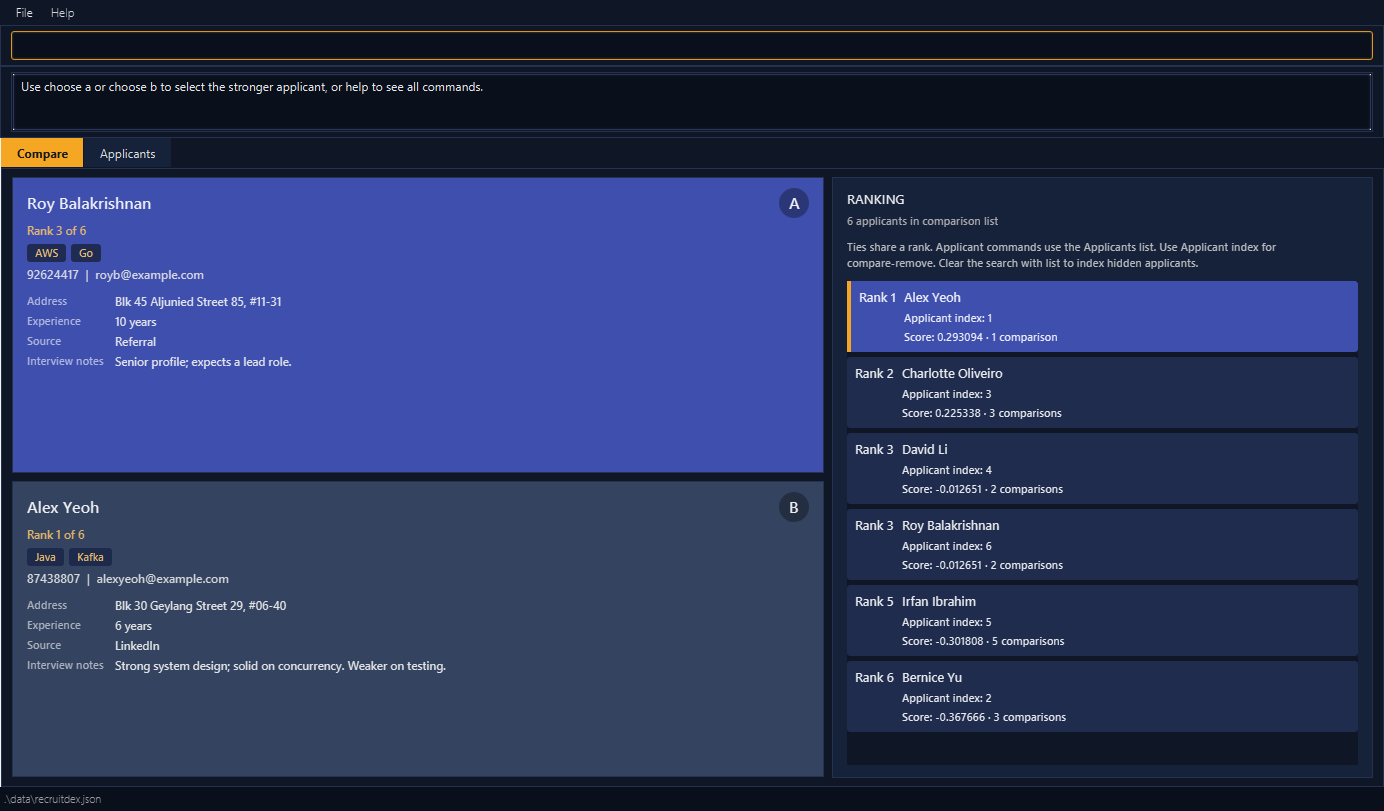
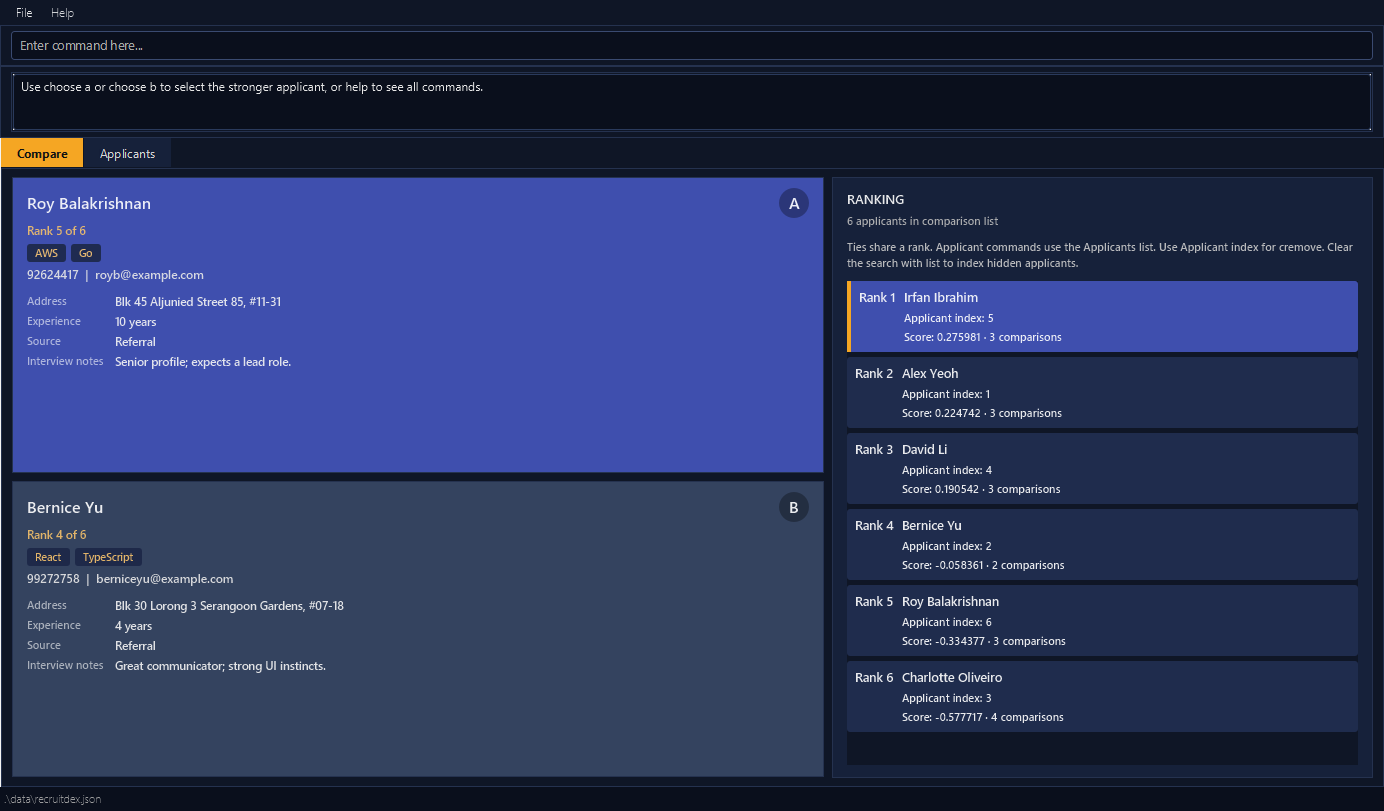
Shorten comparison commands to cadd and cremove
The comparison commands require typing compare-add and compare-remove
for each membership change.

Shorten these names to reduce typing while keeping the actions clear.
Rename them to cadd and cremove without retaining aliases, giving each
action one supported command name.

Update the ranking hint, affected tests, both guides, and screenshots
so the documented commands match the application.

Refs #179

diff --git a/src/test/java/seedu/recruitdex/logic/LogicManagerTest.java b/src/test/java/seedu/recruitdex/logic/LogicManagerTest.java
@@ -167,10 +167,10 @@ public class LogicManagerTest {
         model.getApplicantRegistry().add(ALICE);
         model.getApplicantRegistry().add(BENSON);
         var pairProperty = logic.getCurrentPairProperty();
-        logic.execute("compare-add 1");
+        logic.execute("cadd 1");
         assertTrue(pairProperty.get().isEmpty());
 
-        logic.execute("compare-add 2");
+        logic.execute("cadd 2");
 
         ComparisonPair selectedPair = pairProperty.get().orElseThrow();
         assertEquals(Set.of(ALICE.getId(), BENSON.getId()),
@@ -187,8 +187,8 @@ public class LogicManagerTest {
     public void execute_choose_recordsDisplayedSideAndPersistsHistoryRankingAndNextPair() throws Exception {
         model.getApplicantRegistry().add(ALICE);
         model.getApplicantRegistry().add(BENSON);
-        logic.execute("compare-add 1");
-        logic.execute("compare-add 2");
+        logic.execute("cadd 1");
+        logic.execute("cadd 2");
         logic.execute("find -n Alice");
         ComparisonPair presentedPair = logic.getCurrentPairProperty().get().orElseThrow();
         Applicant winner = model.getApplicantRegistry().get(presentedPair.getFirstApplicantId());
@@ -229,7 +229,7 @@ public class LogicManagerTest {
     @Test
     public void execute_chooseWithoutPair_rejectsCommandAndPreservesSavedData() throws Exception {
         model.getApplicantRegistry().add(ALICE);
-        logic.execute("compare-add 1");
+        logic.execute("cadd 1");
         JsonRecruitDexDataStorage saved =
                 new JsonRecruitDexDataStorage(temporaryFolder.resolve("recruitDexData.json"));
         ReadOnlyRecruitDexData savedBefore = saved.readRecruitDexData().orElseThrow();

diff --git a/src/test/java/seedu/recruitdex/logic/ComparisonCommandRankingFailureTest.java b/src/test/java/seedu/recruitdex/logic/ComparisonCommandRankingFailureTest.java
@@ -50,13 +50,13 @@ public class ComparisonCommandRankingFailureTest {
 
     @TestFactory
     public Stream<DynamicTest> execute_rankingFailure_preservesModelAndSavedData() {
-        return Stream.of("compare-add", "compare-remove", "delete")
+        return Stream.of("cadd", "cremove", "delete")
                 .map(command -> DynamicTest.dynamicTest(command, () -> assertRejectedWithoutChanges(command)));
     }
 
     private void assertRejectedWithoutChanges(String command) throws Exception {
         ModelManager model = createModel(command);
-        Applicant target = command.equals("compare-add") ? DANIEL : ELLE;
+        Applicant target = command.equals("cadd") ? DANIEL : ELLE;
         model.updateFilteredApplicantList(applicant -> applicant.getId().equals(target.getId()));
         RecruitDexData dataBefore = new RecruitDexData(model.getRecruitDexData());
         List<RankingEntry> rankingBefore = List.copyOf(model.getRankingEngine().getRanking());
@@ -117,7 +117,7 @@ public class ComparisonCommandRankingFailureTest {
             model.getApplicantRegistry().add(applicant);
         }
         List<ComparisonDecision> decisions = createHistory();
-        if (command.equals("compare-add")) {
+        if (command.equals("cadd")) {
             // Daniel's retained decisions become eligible when he rejoins the pool.
             model.getComparisonList().resetData(Set.of(ALICE.getId(), BENSON.getId(), CARL.getId()), decisions,
                     Optional.of(new ComparisonPair(ALICE.getId(), BENSON.getId())));

diff --git a/src/test/java/seedu/recruitdex/logic/commands/CommandInfoTest.java b/src/test/java/seedu/recruitdex/logic/commands/CommandInfoTest.java
@@ -55,11 +55,11 @@ public class CommandInfoTest {
 
     @Test
     public void fromUsage_commandWordWithHyphen_isKept() {
-        CommandInfo info = CommandInfo.fromUsage("compare-add: Adds an applicant.\n"
-                + "Parameters: INDEX\nExample: compare-add 1");
+        CommandInfo info = CommandInfo.fromUsage("sample-command: Adds an applicant.\n"
+                + "Parameters: INDEX\nExample: sample-command 1");
 
-        assertEquals("compare-add", info.commandWord());
-        assertEquals("compare-add 1", info.example());
+        assertEquals("sample-command", info.commandWord());
+        assertEquals("sample-command 1", info.example());
     }
 
     @Test

diff --git a/src/main/java/seedu/recruitdex/logic/commands/RemoveFromComparisonCommand.java b/src/main/java/seedu/recruitdex/logic/commands/RemoveFromComparisonCommand.java
@@ -18,7 +18,7 @@ import seedu.recruitdex.model.comparison.ComparisonList;
  * Removing a non-member is reported as a command error without changing model state.
  */
 public class RemoveFromComparisonCommand extends Command {
-    public static final String COMMAND_WORD = "compare-remove";
+    public static final String COMMAND_WORD = "cremove";
 
     public static final String MESSAGE_USAGE = COMMAND_WORD
             + ": Removes an applicant from the comparison list, keeping the applicant record.\n"

diff --git a/src/main/java/seedu/recruitdex/logic/commands/AddToComparisonCommand.java b/src/main/java/seedu/recruitdex/logic/commands/AddToComparisonCommand.java
@@ -17,7 +17,7 @@ import seedu.recruitdex.model.comparison.exceptions.DuplicateComparisonMemberExc
  * Adds an existing applicant identified by its displayed index to the active comparison list.
  */
 public class AddToComparisonCommand extends Command {
-    public static final String COMMAND_WORD = "compare-add";
+    public static final String COMMAND_WORD = "cadd";
 
     public static final String MESSAGE_USAGE = COMMAND_WORD
             + ": Adds an existing applicant to the comparison list.\n"

diff --git a/docs/UserGuide.md b/docs/UserGuide.md
@@ -42,7 +42,7 @@ RecruitDex is a desktop application for managing applicant records through comma
 
    * `delete 3` : Deletes the 3rd applicant shown in the current list.
 
-   * `compare-add 1` : Adds the 1st applicant to the comparison list. Add at least two applicants, then use `choose a` or `choose b` to pick the stronger one of the pair shown in the **Compare** tab.
+   * `cadd 1` : Adds the 1st applicant to the comparison list. Add at least two applicants, then use `choose a` or `choose b` to pick the stronger one of the pair shown in the **Compare** tab.
 
    * `clear` : Deletes all applicant records.
 
@@ -56,8 +56,8 @@ RecruitDex is a desktop application for managing applicant records through comma
 
 * **Command box (top):** type a command here and press Enter. Everything in RecruitDex is done with commands.
 * **Result box (below it):** shows what the last command did, or why it failed.
-* **Compare tab:** shows two applicants side by side, labelled **A** and **B**, with their details and interview notes. Next to them, the **RANKING** panel lists the applicants in the comparison list from highest to lowest. Each row labels the rank and the **Applicant index** separately. Use the applicant index for `compare-remove`, rather than the rank. Indices follow the current results in **Applicants**; if an applicant is hidden by a search, use `list` to show all applicants and restore their indices. Use `choose a` or `choose b` to pick the stronger applicant. See [Choosing the stronger applicant](#choosing-the-stronger-applicant-choose).
-* **Applicants tab:** shows the current applicant list, numbered. After a search, it shows only matching applicants. Commands such as `edit`, `delete`, `compare-add` and `compare-remove` use these numbers as `INDEX`.
+* **Compare tab:** shows two applicants side by side, labelled **A** and **B**, with their details and interview notes. Next to them, the **RANKING** panel lists the applicants in the comparison list from highest to lowest. Each row labels the rank and the **Applicant index** separately. Use the applicant index for `cremove`, rather than the rank. Indices follow the current results in **Applicants**; if an applicant is hidden by a search, use `list` to show all applicants and restore their indices. Use `choose a` or `choose b` to pick the stronger applicant. See [Choosing the stronger applicant](#choosing-the-stronger-applicant-choose).
+* **Applicants tab:** shows the current applicant list, numbered. After a search, it shows only matching applicants. Commands such as `edit`, `delete`, `cadd` and `cremove` use these numbers as `INDEX`.
 * **Switching tabs:** type `sw` or press the up/down or left/right arrow keys when the command bar is not selected to jump between the **Compare** tab and the **Applicants** tab without using the mouse. See [Switching tabs](#switching-tabs-sw).
 * **Help:** click **Help** in the menu bar, press `F1`, or type `help` to see all commands. See [Viewing help](#viewing-help-help).
 
@@ -125,11 +125,11 @@ even when the applicant list is filtered. Ties share a rank, and applicants with
 **Unassessed** instead of a rank. These positions update with the leaderboard and are not the indices used by applicant commands.
 
 With the initial sample data, the leaderboard starts empty. Its heading shows `0 applicants in comparison list`.
-Use `compare-add INDEX` to include an existing applicant in the leaderboard.
+Use `cadd INDEX` to include an existing applicant in the leaderboard.
 Adding applicant records alone leaves the leaderboard empty. Use `choose a` or `choose b` to record a comparison.
 Comparison membership, decisions, and any unanswered pair are saved between sessions.
 
-If `compare-add`, `compare-remove` or `delete` cannot update the ranking, RecruitDex reports an error and keeps your data, current pair, ranking and search unchanged. Other commands remain available.
+If `cadd`, `cremove` or `delete` cannot update the ranking, RecruitDex reports an error and keeps your data, current pair, ranking and search unchanged. Other commands remain available.
 
 ### Viewing help: `help`
 
@@ -171,11 +171,11 @@ Examples:
 * `add -n Betsy Crowe -t Python -e betsycrowe@example.com -a Clementi Ave 2 -p 1234567 -t SQL`
 * `add -n Jane Doe -p 91234567 -e jane@example.com -a Blk 1 Clementi -y 6 -s LinkedIn -i Great system design -t Java -t Kafka`
 
-### Adding an applicant to the comparison list: `compare-add`
+### Adding an applicant to the comparison list: `cadd`
 
 Adds an existing applicant to the active comparison list.
 
-Format: `compare-add INDEX`
+Format: `cadd INDEX`
 
 * `INDEX` is a positive integer referring to the applicant's position in the displayed applicant list.
 * After `find`, the index refers to the filtered results.
@@ -184,19 +184,19 @@ Format: `compare-add INDEX`
 
 Examples:
 
-* `list` followed by `compare-add 2` selects the second applicant in the displayed list.
-* `find -n Betsy` followed by `compare-add 1` selects the first applicant in the search results.
+* `list` followed by `cadd 2` selects the second applicant in the displayed list.
+* `find -n Betsy` followed by `cadd 1` selects the first applicant in the search results.
 
 Adding an applicant updates the ranking immediately. Membership and comparison decisions are saved
 with the applicant records and restored when the application reopens. Using `clear` also resets membership.
 Once two applicants are in the comparison list, a pair appears in the comparison panel.
 Adding more applicants keeps the current pair. Applicants can be compared repeatedly.
 
-### Removing an applicant from the comparison list: `compare-remove`
+### Removing an applicant from the comparison list: `cremove`
 
 Removes an existing applicant from the active comparison list while keeping their record and comparison history.
 
-Format: `compare-remove INDEX`
+Format: `cremove INDEX`
 
 * `INDEX` is a positive integer referring to the applicant's position in the displayed applicant list.
 * After `find`, the index refers to the filtered results.
@@ -210,8 +210,8 @@ Format: `compare-remove INDEX`
 
 Examples:
 
-* `list` followed by `compare-remove 2` selects the second applicant in the displayed list.
-* `find -n Betsy` followed by `compare-remove 1` selects the first applicant in the search results.
+* `list` followed by `cremove 2` selects the second applicant in the displayed list.
+* `find -n Betsy` followed by `cremove 1` selects the first applicant in the search results.
 
 Removing an applicant updates the ranking immediately. Membership and comparison decisions are saved
 with the applicant records. If the applicant is in the unanswered pair, a replacement pair is selected.
@@ -226,14 +226,14 @@ Format: `choose a` or `choose b`
 * `a` selects the applicant labelled **A**; `b` selects the applicant labelled **B**.
   Uppercase `A` and `B` are also accepted.
 * These labels refer to the current comparison pair. Searching the applicant list does not change their meaning.
-* A pending pair is required. Add at least two applicants using `compare-add INDEX` to start comparisons.
+* A pending pair is required. Add at least two applicants using `cadd INDEX` to start comparisons.
 * The decision is added to the history, the ranking updates immediately, and the next pair appears.
   RecruitDex favours applicants with fewer comparisons and opponents with similar scores, while reducing repeated pairings. With more than two active applicants, it avoids immediately repeating the last compared pair. With only two, the same applicants appear again. Their A/B sides may change, so review each new pair before choosing.
 * Each repeated choice records a separate decision. Applicant records, membership, and the search filter are retained.
 * The decision history and the new pending pair are saved automatically after a successful command.
 * Missing or invalid sides, extra arguments, and choices without a valid pending pair are rejected.
 
-For example, run `list`, `compare-add 1`, and `compare-add 2`, review the pair in the comparison panel, then enter
+For example, run `list`, `cadd 1`, and `cadd 2`, review the pair in the comparison panel, then enter
 `choose a` to choose the applicant currently labelled **A**. Review the next pair before choosing again.
 
 ### Switching tabs: `sw`
@@ -310,7 +310,7 @@ Format: `delete INDEX`
 * The index **must be a positive integer** 1, 2, 3, ...
 * The ranking updates immediately. An unanswered comparison involving the deleted applicant is replaced,
   or cleared when fewer than two comparison-list members remain.
-* Use `compare-remove` to remove an applicant from the ranking while keeping their record and comparison history.
+* Use `cremove` to remove an applicant from the ranking while keeping their record and comparison history.
 
 Examples:
 * `list` followed by `delete 2` deletes the 2nd applicant in the displayed list.
@@ -383,8 +383,8 @@ Action     | Format, Examples
 **List**   | `list`
 **Find**   | `find [-n NAME] [-p PHONE] [-e EMAIL] [-a ADDRESS] [-i INTERVIEW_NOTES] [-y YEARS_OF_EXPERIENCE] [-s SOURCE] [-t SKILL_TERMS]`<br> e.g., `find -n Alice -t java kaf`
 **Clear**  | `clear`
-**Add to comparison list** | `compare-add INDEX`<br> e.g., `compare-add 2`
-**Remove from comparison list** | `compare-remove INDEX`<br> e.g., `compare-remove 2`
+**Add to comparison list** | `cadd INDEX`<br> e.g., `cadd 2`
+**Remove from comparison list** | `cremove INDEX`<br> e.g., `cremove 2`
 **Choose stronger applicant** | `choose a` or `choose b`
 **Switch tabs** | `sw`
 **Help**   | `help`

diff --git a/docs/DeveloperGuide.md b/docs/DeveloperGuide.md
@@ -18,7 +18,7 @@ RecruitDex helps recruiters rank applicants through a series of side-by-side com
 The workflow has three distinct parts:
 
 1. **Manage applicant records.** Add applicants and maintain details such as names, contact information, and interview notes. Records can be edited or deleted.
-2. **Manage the active comparison list.** Use `compare-add` or `compare-remove` to change the set to be ranked. Creating an applicant record with `add` is a separate operation.
+2. **Manage the active comparison list.** Use `cadd` or `cremove` to change the set to be ranked. Creating an applicant record with `add` is a separate operation.
 3. **Compare applicants.** Open the comparison view, review the two applicants RecruitDex presents, and choose the stronger one. The ranking updates immediately so the recruiter can see the effect of each decision.
 
 These parts can be revisited as recruitment progresses. An applicant must have a record before joining the comparison list and must join the list before being compared, but recruiters can compare existing applicants before adding more. RecruitDex is designed for command-line input, with a graphical interface primarily for displaying applicants, comparisons, and ranking changes.
@@ -209,7 +209,7 @@ This section describes some noteworthy details on how certain features are imple
 
 `ComparisonList` recalculates rankings after membership or decision changes and asks `PairSelector` for a new pair when needed. Adding a member preserves a valid pending pair. Removing or deleting a participant replaces the affected pair, or clears it if fewer than two members remain. `recordDecision` validates the winner, recalculates the ranking with a new UUID-identified, timestamped decision, appends it to history, and selects the next pair.
 
-Membership changes and permanent-deletion cleanup calculate the ranking from proposed membership and history snapshots before changing the live saved data. If ranking calculation fails, applicant records, membership, history, the pending pair and ranking remain unchanged, with no observable updates. The `compare-add`, `compare-remove` and `delete` commands convert the ranking engine's `IllegalStateException` into a `CommandException` for normal UI error feedback. The search filter is retained and subsequent commands remain usable.
+Membership changes and permanent-deletion cleanup calculate the ranking from proposed membership and history snapshots before changing the live saved data. If ranking calculation fails, applicant records, membership, history, the pending pair and ranking remain unchanged, with no observable updates. The `cadd`, `cremove` and `delete` commands convert the ranking engine's `IllegalStateException` into a `CommandException` for normal UI error feedback. The search filter is retained and subsequent commands remain usable.
 
 `PairSelector` uses weighted randomness, favouring applicants with fewer eligible comparisons and partners with close scores. It penalizes repeated pairings and excludes the most recently answered eligible pair when more than two applicants are active. With two members, it reuses that pair. A/B ordering balances previous side appearances, breaking ties randomly. Only decisions with both participants active affect selection statistics.
 
@@ -442,7 +442,7 @@ The diagram above summarizes the six recruiter use cases described below. Their 
 
 1. Recruiter enters `list` to obtain applicant indices and reviews the ranking in the Compare tab.
 2. RecruitDex displays the applicant records and the active ranking.
-3. Recruiter enters `compare-remove INDEX` using the applicant index, not their rank.
+3. Recruiter enters `cremove INDEX` using the applicant index, not their rank.
 4. RecruitDex removes the applicant from the active comparison list and displays the ranking of the remaining applicants.
 
    Use case ends. The applicant's record and comparison history remain available. Decisions involving an inactive applicant are excluded from the current ranking.
@@ -632,11 +632,11 @@ Use a separate writable folder and a copy of the JAR so that testing does not af
 
 ### Comparisons, ranking and persistence
 
-1. Start with at least three records and enter `list`. Enter `compare-add 1` and `compare-add 2`. Expect two applicants in the Unassessed group and an A/B pair. Enter `compare-add 1` again; expect a duplicate-membership error.
-2. Enter `compare-add 3`. Expect a third unassessed applicant and the same pending pair. Enter `choose a`. Expect the displayed A applicant to win, both participants to move into the assessed ranking with updated comparison counts, and a new pair. The remaining applicant stays unassessed without a displayed rank or score. With three active applicants the immediately preceding pair should not repeat.
+1. Start with at least three records and enter `list`. Enter `cadd 1` and `cadd 2`. Expect two applicants in the Unassessed group and an A/B pair. Enter `cadd 1` again; expect a duplicate-membership error.
+2. Enter `cadd 3`. Expect a third unassessed applicant and the same pending pair. Enter `choose a`. Expect the displayed A applicant to win, both participants to move into the assessed ranking with updated comparison counts, and a new pair. The remaining applicant stays unassessed without a displayed rank or score. With three active applicants the immediately preceding pair should not repeat.
 3. Enter `choose c` and `choose a extra`. Expect errors without a new decision or pair change. Enter `find -n Test One`; expect the ranking and pending pair to remain unchanged while command indices reflect the filtered list.
 4. Close and reopen the app. Expect the same membership, decisions, ranking and pending A/B sides; the search filter resets. Further choices may change the A/B sides.
-5. Enter `list`, identify a member's applicant index and enter `compare-remove INDEX`. Expect the record to remain, its ranking entry to disappear, and an affected pair to be replaced or cleared. Remove it again; expect an error. Add it back; expect retained decisions to count again when both participants are active.
+5. Enter `list`, identify a member's applicant index and enter `cremove INDEX`. Expect the record to remain, its ranking entry to disappear, and an affected pair to be replaced or cleared. Remove it again; expect an error. Add it back; expect retained decisions to count again when both participants are active.
 6. Delete a member using its displayed applicant index. Expect its record, membership and decisions involving it to be removed. An affected pair is replaced or cleared. Enter `clear`; expect no records, members, decisions, pair or ranking, including after restart.
 
 ### Saving and recovery
